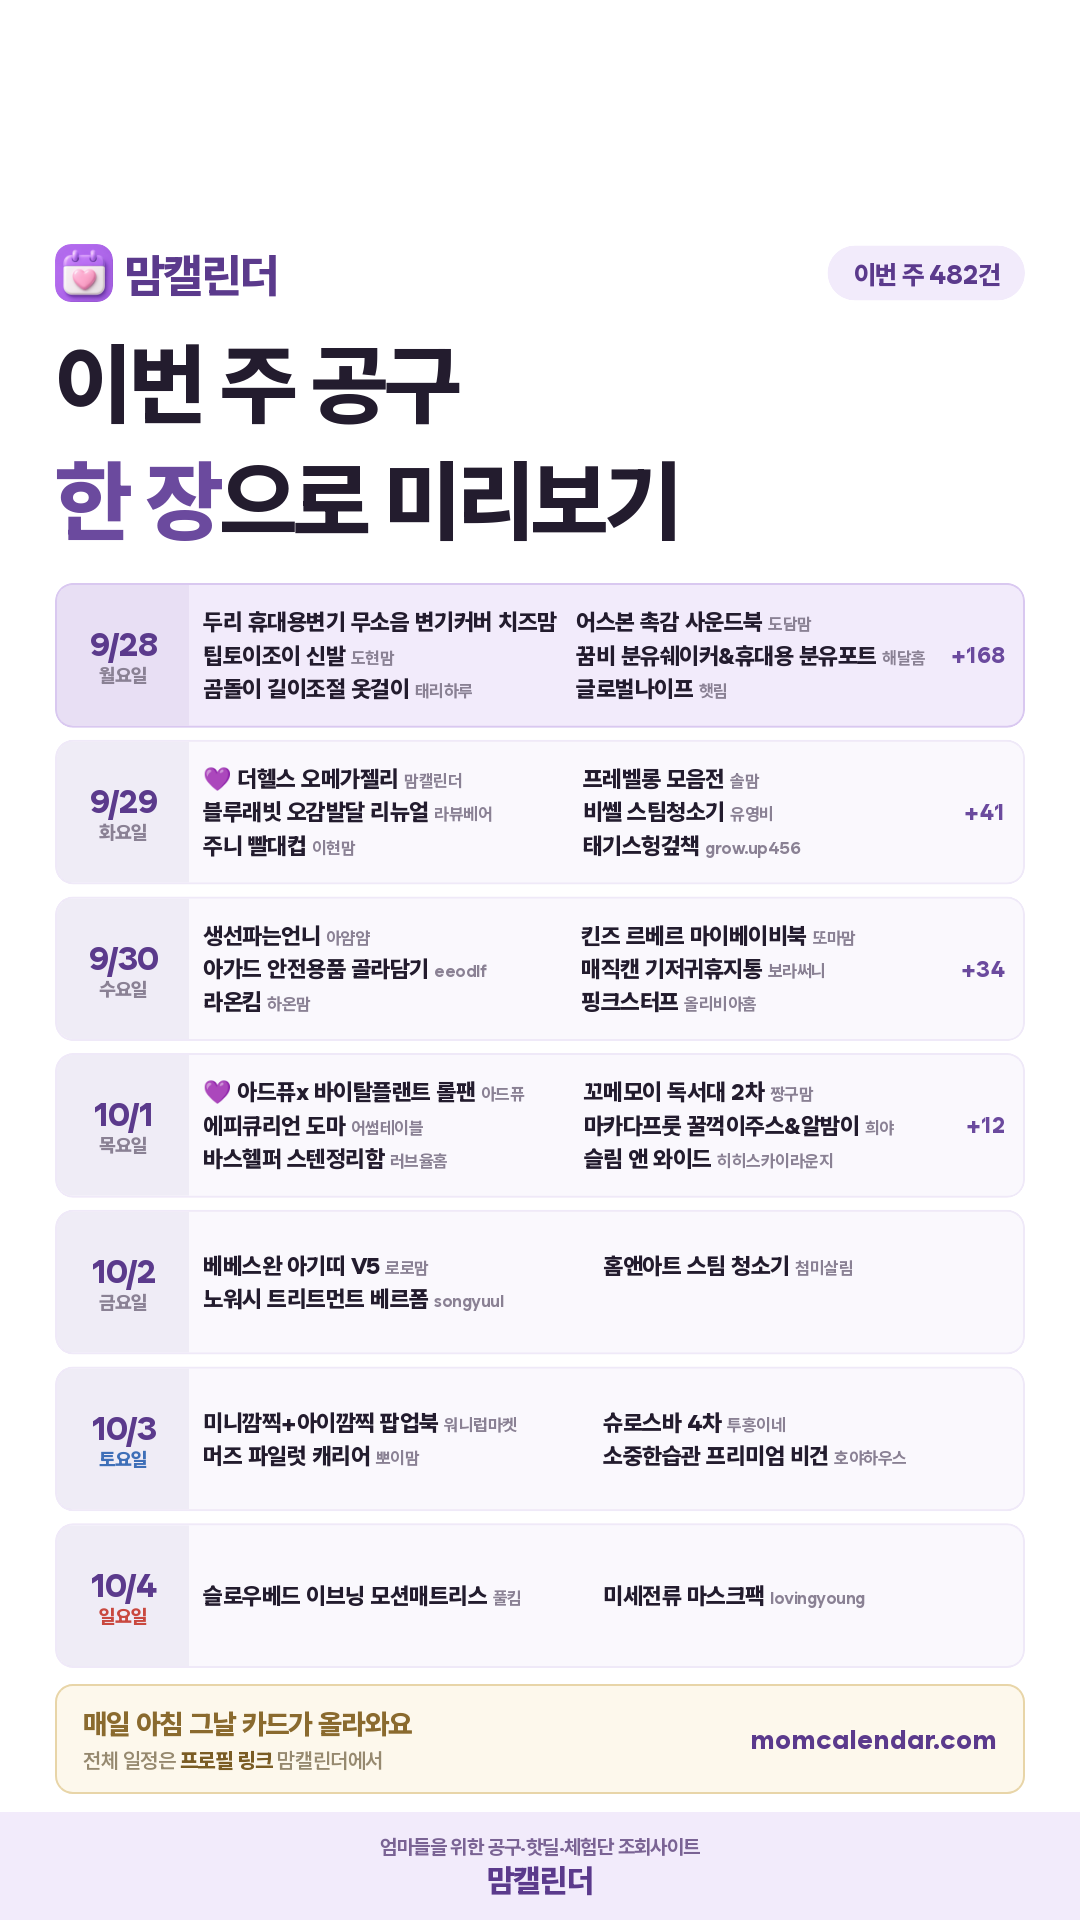
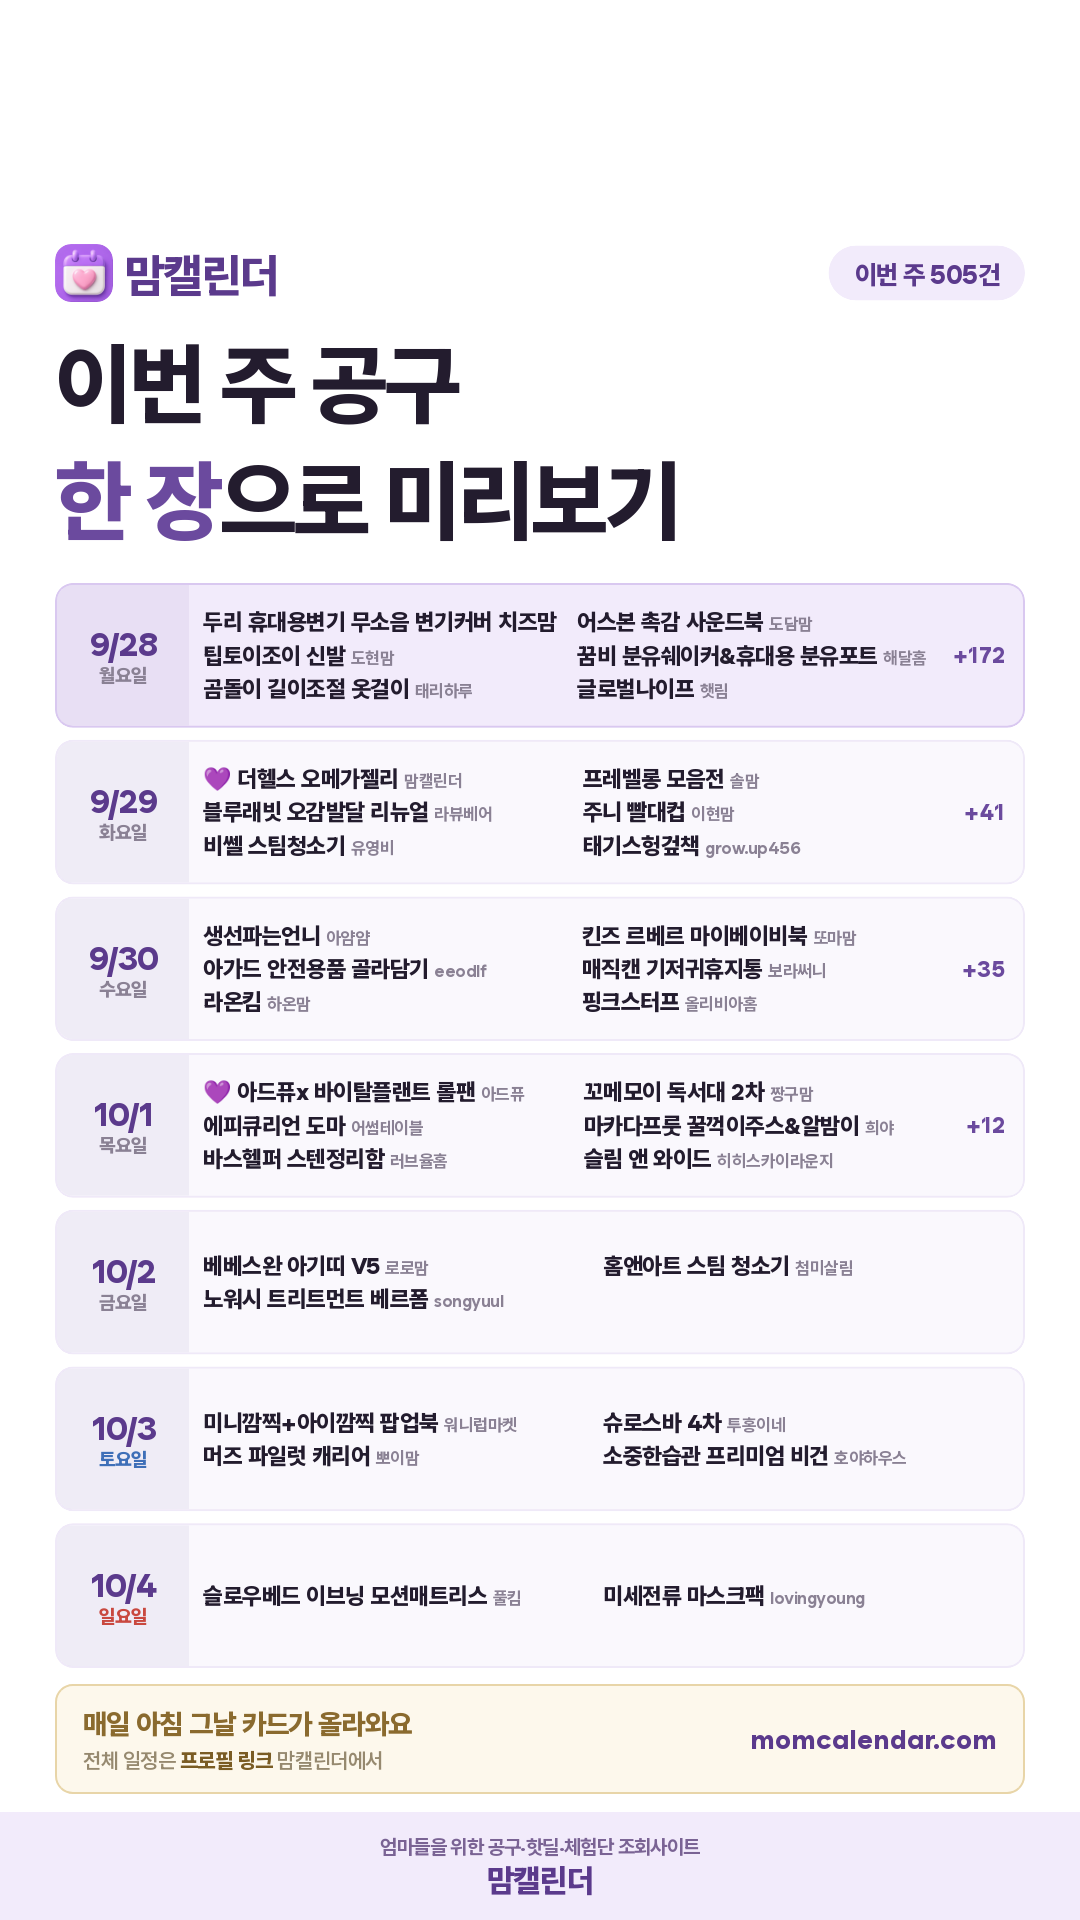
아침 인스타 카드 (2026-09-28)

diff --git a/daily/2026-09-28.html b/daily/2026-09-28.html
@@ -19,7 +19,7 @@ textarea{width:100%;height:260px;border:1px solid #E3DCEF;border-radius:10px;pad
 .todo p{font-size:12.5px;color:#6B6379;line-height:1.75;margin-top:6px}
 .todo a{color:#5B2E8C;font-weight:700}
 </style></head><body>
-<div class="hd"><div class="wrap"><h1>9월 28일(월) 인스타 카드</h1><p>주간예고 · week 482</p></div></div>
+<div class="hd"><div class="wrap"><h1>9월 28일(월) 인스타 카드</h1><p>주간예고 · week 505</p></div></div>
 <div class="wrap">
   
   <div class="card"><img src="./2026-09-28.png" alt="오늘 공구 카드"></div>
@@ -27,7 +27,7 @@ textarea{width:100%;height:260px;border:1px solid #E3DCEF;border-radius:10px;pad
   <div class="card">
     <textarea id="cap" readonly>한 주 시작 전에 공구 캘린더부터 저장하세요
 
-이번 주(9/28~10/4) 오픈 예정 482건
+이번 주(9/28~10/4) 오픈 예정 505건
 
 ━━━━━━━━━━━━━━
 
@@ -41,22 +41,22 @@ textarea{width:100%;height:260px;border:1px solid #E3DCEF;border-radius:10px;pad
 · 4세대 세이펜 &amp; 5세대 세이톡 — 쁨마미
 · 삼천리 샘트라이크 — 주원맘
 · 에듀플레이어·DVD 모음전 — 꽃비니
-· 토도 영어, 한글 — 로이맘
 · 탁가온 할인전 — 온이프홈
-· 땡스소윤 — 다다
+· 토도 영어, 한글 — 로이맘
+· 나뚜라하우스 여성청결제 + 아몬드오일 — 따리따리
 · 아이팜 디딤대 — 누누맘
+· 땡스소윤 — 다다
 · 퍼스트바이크 — 또비앙
 · 푸른들 후리가케 동결건조국 — 젤리또리
 · 조이 카시트 360 — 봄동이네
-· 미미뻥 — 하윤맘
-…외 157건
+…외 161건
 
 🗓 9/29(화) 오픈
 · 더헬스 오메가젤리 — 맘캘린더 @momcal_
 · 프레벨롱 모음전 — 솔맘
 · 블루래빗 오감발달 리뉴얼 — 라뷰베어
-· 비쎌 스팀청소기 — 유영비
 · 주니 빨대컵 — 이현맘
+· 비쎌 스팀청소기 — 유영비
 · 태기스헝겊책 — grow.up456
 · 주니 갓성비 러닝타워 — 비나맘
 · 꿈잉 러닝타워 — 서누서나네
@@ -68,8 +68,7 @@ textarea{width:100%;height:260px;border:1px solid #E3DCEF;border-radius:10px;pad
 · 셀피 두피 괄사 2차 — 매일부엌
 · 맥킹덤 맥타일즈 자석블럭 모음전 — 이현찰퐁맘
 · 어설랑 키즈어묵 2차 — 윤슬라멜맘
-· 비트리 블랙 — 정성
-…외 30건
+…외 31건
 
 🗓 9/30(수) 오픈
 · 생선파는언니 — 아얌얌
@@ -88,8 +87,7 @@ textarea{width:100%;height:260px;border:1px solid #E3DCEF;border-radius:10px;pad
 · 로트벡쉔 이뮨킥·그로우업샷 — 리본홈
 · 다요트 청하단 — yoon__bling
 · 첫물곰탕 — 진명테이블
-· 헤모씨 플러스 다이렉트 — 딸기약사
-…외 23건
+…외 25건
 
 🗓 10/1(목) 오픈
 · 아드퓨x 바이탈플랜트 롤팬 — 아드퓨 @atelier.de.purete
@@ -102,12 +100,12 @@ textarea{width:100%;height:260px;border:1px solid #E3DCEF;border-radius:10px;pad
 · 프리파라 브루클린 밀폐용기 — 몽슈아
 · 베리네이처 야채큐브 — 봉쥬르맘
 · 더진순 곰탕 — 김진순
+· 제스파 마사지베개 — vita_ddoddo
+· 뉴트리션스탠다드 커큐민플라 롱비다 커큐민 — 드림약사
+· 서울 안토 — 준성담
 · 오즈웨어 어그 베스트&amp;신상 — 종달맘
 · 비프칩 &amp; 버터 4차 — 생활작가
 · 메디픽 구강세정기 앵콜 8차 — 덴덴언니
-· 푸꾸옥 에어텔 — 이루맘
-· 엔에프락 원형 세트 — 누누네
-· 3만원대 자동센서 휴지통 — 채집
 …외 2건
 
 🗓 10/2(금) 오픈
@@ -144,7 +142,7 @@ textarea{width:100%;height:260px;border:1px solid #E3DCEF;border-radius:10px;pad
 ⚠ 공구 일정은 판매자 사정에 따라 변경·조기마감될 수 있어요.
 
 #맘캘린더 #공구일정 #육아공구 #9월28일공구 #공구추천 #육아맘 #오늘의공구 #공구모음 #영양제 #아기간식 #공동구매 #놀잇감</textarea>
-    <div class="meta">2181자</div>
+    <div class="meta">2179자</div>
     <button class="btn btn2" onclick="cp('cap','캡션')">캡션 복사</button>
   </div>
   <div class="card">
@@ -176,10 +174,10 @@ https://open.kakao.com/o/gr2kJhCh
 
 ─────────────
 
-9월 28일(월), 오늘 문 여는 공동구매 233건이에요. 카테고리별로 보기 좋게 정리했어요.
-함께 마감 52건도 정리했어요. 놓친 게 없는지 훑어보세요.
+9월 28일(월), 오늘 문 여는 공동구매 242건이에요. 카테고리별로 보기 좋게 정리했어요.
+함께 마감 56건도 정리했어요. 놓친 게 없는지 훑어보세요.
 
-■ 오늘 오픈하는 공구 233건
+■ 오늘 오픈하는 공구 242건
 
 [육아]
 · 3차 우리아이채수&amp;우리가족채수 — 드니맘 (~10/1 마감)
@@ -233,8 +231,8 @@ https://open.kakao.com/o/gr2kJhCh
 · 아람키즈 접이식 피아노 — 도하상점 (~9/30 마감)
 · 아이누오 두상베개 3차 — 뽀물이네 (~9/30 마감)
 · 아이팜 디딤대 — 누누맘 (~9/30 마감)
-· 아티바바 실리콘블럭 — 뮤즈마켓 (~9/30 마감)
 · 아티바바 실리콘블럭 — 뮤즈언니 (~9/30 마감)
+· 아티바바 실리콘블럭 — 뮤즈마켓 (~9/30 마감)
 · 애플비 사운드북 15종 골라담기 — 수니점빵 (~10/1 마감)
 · 어스본 촉감 사운드북 — 도담맘 (~10/2 마감)
 · 엄마랑 낱말카드 — 벨라하우스 (~10/1 마감)
@@ -286,6 +284,7 @@ https://open.kakao.com/o/gr2kJhCh
 · 메디니스 목견인기 — 헬썬 (~9/30 마감)
 · 메종프라질 쿠페 멀티나이프 — 썬이맘 (~10/2 마감)
 · 베베데코 스크래쳐 — 부끄 (~10/5 마감)
+· 스웰 샐러드볼 — 헬룸 (~10/1 마감)
 · 시라쿠스 메이플 식기 — 대장언니 (~9/30 마감)
 · 쏘우리프 행주걸이 — 그루비슬 (~10/1 마감)
 · 아기방필수템 암막블라인드 — 다니맘 (~9/30 마감)
@@ -300,6 +299,7 @@ https://open.kakao.com/o/gr2kJhCh
 · 텐셀 모달 차렵 4계절용 — 그집1303 (~10/1 마감)
 · 프렘 무쇠 냄비&amp;후라이팬 — 길쭉이네 (~10/1 마감)
 · 한식양식 커트러리 — 원살림 (~10/4 마감)
+· 호들 낮잠이불 — 메종드엘라 (~10/1 마감)
 
 [식품]
 · 그랑퍼마쥬 씨솔트 버터 — 헬씨원 (~9/30 마감)
@@ -308,6 +308,7 @@ https://open.kakao.com/o/gr2kJhCh
 · 모스 스토리 육수가루 — 맘스테이블 (~10/4 마감)
 · 무무칩 소고기칩&amp; 소고기가루 무무솔솔 — 모찌맘 (~10/1 마감)
 · 미미뻥 — 하윤맘 (~10/1 마감)
+· 밀키요 요거트 — 우둥맘 (~9/30 마감)
 · 바밤 단호박 — 간식당 (~10/1 마감)
 · 백본감자탕 — cook_and_candle (~9/30 마감)
 · 백억닭발 — 대구언니야 (~10/1 마감)
@@ -316,11 +317,13 @@ https://open.kakao.com/o/gr2kJhCh
 · 비연담 닭곰탕·갈비탕·등갈비탕 — 라라맘 (~10/4 마감)
 · 뿌리링 후리가케 22차 — 매일부엌 (~10/1 마감)
 · 소일베이커 3차 — emily.at_home (~10/1 마감)
+· 스프레이오일·올리브유·현미유 — 희야 (~10/1 마감)
 · 실큰두부 — 김미정 (~9/30 마감)
 · 아이들 건강 식빵 카스테라 — 약사부부 (~10/1 마감)
 · 얼짱쭈꾸미 — 예림 (~10/2 마감)
 · 엉파 목초육 이베리코 듀록 간편식 — 제제로운건강생활 (~9/30 마감)
 · 여수해적 빡된장 — 송송마켓 (~10/3 마감)
+· 여수해적 전복죽 — 힝버미네 (~10/2 마감)
 · 올바스 오일 — gooomzybusy (~10/1 마감)
 · 우아한김 — 윤슬라멜맘 (~10/1 마감)
 · 워킹맘의 닭발 알곱창 간장찜닭 — 워킹맘의하루 (~10/1 마감)
@@ -344,6 +347,7 @@ https://open.kakao.com/o/gr2kJhCh
 · 가꾸기 다이어트 쉐이크 — 베라킴 (~9/30 마감)
 · 그로틴 쉐이크 — 하겸 (~9/30 마감)
 · 뉴트리원 이노시톨·철분제·칼마디·질유산균 — 이유데이 (~10/1 마감)
+· 닥터퀼리 오메가3 — 뷰약사 (~10/5 마감)
 · 닥터퀼리 철분제 — 강약사 (~10/1 마감)
 · 닥터파이토 파이토블락 — 서찬서가 (~10/1 마감)
 · 더리틀스 코큐텐부스터 — 아이엠약사 (~10/4 마감)
@@ -360,6 +364,7 @@ https://open.kakao.com/o/gr2kJhCh
 · 영라뉴 급찐급빠 — 서진쌤 (~10/1 마감)
 · 영롱 콜라겐 — 우아맘 (~10/1 마감)
 · 올비건 오메가3 — 레미맘 (~10/1 마감)
+· 올키 비타&amp;칼슘젤리 + 넘버블록스 오메가3 — 이현찰퐁맘 (~10/1 마감)
 · 올퓨어 오메가3 — 기요니 (~10/1 마감)
 · 이노시톨 — 도비약사 (~10/1 마감)
 · 인플샷 — 먹조아맘 (~10/1 마감)
@@ -386,6 +391,7 @@ https://open.kakao.com/o/gr2kJhCh
 · 비블리안 — 브론즈 (~10/5 마감)
 · 비판톨 고보습 바디케어 — 마이어홈 (~10/1 마감)
 · 이타카 바스트 퍼밍 세트 — 윤지쌤 (~10/4 마감)
+· 풋네스 기적의 풋크림 5차 — 티로젯 (~10/1 마감)
 · 프란츠 — double_joo (~10/2 마감)
 
 [가전]
@@ -421,8 +427,8 @@ https://open.kakao.com/o/gr2kJhCh
 · MSC 벨리시마 크루즈 — 여행특가 말랑맘 (~10/1 마감)
 · 알펜시아 리조트 — 제니져니 (~10/4 마감)
 · 제주 신화월드 — Hello롱초 (~10/3 마감)
-· 코튼클라우드 디자인선염 호텔수건 피크닉 — 리로네 (~10/1 마감)
 · 코튼클라우드 디자인선염 호텔수건 피크닉 — 3__meow (~10/1 마감)
+· 코튼클라우드 디자인선염 호텔수건 피크닉 — 리로네 (~10/1 마감)
 
 [인테리어]
 · 롤베이비 러그 — 토코맘 (~10/1 마감)
@@ -432,8 +438,12 @@ https://open.kakao.com/o/gr2kJhCh
 · 아오라 우주빔 무드등 — 또마맘 (~10/1 마감)
 · 암막블라인드 — 박다솜 (~9/30 마감)
 
-■ 오늘 끝나는 공구 52건
+[반려동물]
+· 브릿 덴탈스틱·트릿 — 개엄마 (~10/2 마감)
+
+■ 오늘 끝나는 공구 56건
 · AM 텀블러 — 프롬졸리
+· DOWESEE 버터 맥시스커트 — vita_ddoddo
 · 굿에바스 플레이그라운드 — 이안마미
 · 길쭉담이 수납함 — 미르홈
 · 까르엠 030 스윙 모듈 소파 2차 — 헤이홈
@@ -449,6 +459,7 @@ https://open.kakao.com/o/gr2kJhCh
 · 마더케이 — 헤이다다
 · 마이리틀 경제동화 — 서점맘
 · 맘이가요 추석 홀리데이 키친 위크 — 맘이가요
+· 메디니스 넥필 목견인기 — 스노우밤비
 · 메쉬 지퍼파우치 — 장소정
 · 미소다 냉동제품 8종 — 라라맘
 · 미스티파이 뽑아쓰는 항균 행주 — 레이첼꽁
@@ -464,6 +475,7 @@ https://open.kakao.com/o/gr2kJhCh
 · 에떼르노 세면대 수전 — 신림댁
 · 에떼르노 세면대 수전 — 신림댁
 · 여원 창작동화 전집 — 쀼맘
+· 올유베베 멜로우 후드집업 — 선유맘
 · 우리별피자 — 맘캘린더
 · 웅진 똑똑한 유아 어휘·독해 — 류둥이네
 · 위칙 소독 세탁세제·유연제 — 사는게예술
@@ -472,6 +484,7 @@ https://open.kakao.com/o/gr2kJhCh
 · 찐티 보리·옥수수·현미차 — gooomzybusy
 · 총영하이 프로디 유산균+비타민D — my_ssseul_
 · 카베 SOD 위밸런스 — 자신있는약상담
+· 큐브온 4포트 릴타입 충전기 — 에루홈
 · 큐템 MD크림 — 봉선아
 · 터블 이지클린 발포세정제 — 친절한 미달이
 · 테라큐민 — 은하약사

diff --git a/daily/today.html b/daily/today.html
@@ -1,15 +1,15 @@
 <!DOCTYPE html><html lang="ko"><head>
 <meta charset="UTF-8"><meta name="viewport" content="width=device-width,initial-scale=1">
 <meta name="robots" content="noindex,nofollow">
-<title>10/5(월) 오늘 공구 캘린더</title>
-<meta property="og:title" content="10/5(월) 오늘 공구 캘린더">
-<meta property="og:image" content="https://momcalendar.com/daily/today.png?v=2026-10-05">
+<title>9/28(월) 오늘 공구 캘린더</title>
+<meta property="og:title" content="9/28(월) 오늘 공구 캘린더">
+<meta property="og:image" content="https://momcalendar.com/daily/today.png?v=2026-09-28">
 <style>body{margin:0;background:#F6F4F9;font-family:-apple-system,BlinkMacSystemFont,'Apple SD Gothic Neo','Malgun Gothic',sans-serif;text-align:center}
 h1{font-size:17px;color:#4A1A78;padding:14px 0 10px;margin:0}
 img{width:100%;max-width:540px;display:block;margin:0 auto;border-radius:12px;box-shadow:0 2px 12px rgba(96,32,144,.12)}
 p{font-size:12.5px;color:#8A8A8A;padding:12px}</style></head><body>
 
-<h1>10/5(월) 오늘 공구 캘린더</h1>
-<img src="./today.png?v=1790545182644" alt="10/5(월) 오늘 공구 캘린더">
+<h1>9/28(월) 오늘 공구 캘린더</h1>
+<img src="./today.png?v=1790557822181" alt="9/28(월) 오늘 공구 캘린더">
 <p>매일 아침 자동으로 새로 그려집니다 · <a href="https://momcalendar.com">맘캘린더</a></p>
 </body></html>

diff --git a/daily/index.html b/daily/index.html
@@ -1,1 +1,1 @@
-<!DOCTYPE html><meta charset="UTF-8"><meta http-equiv="refresh" content="0;url=./2026-10-05.html">
+<!DOCTYPE html><meta charset="UTF-8"><meta http-equiv="refresh" content="0;url=./2026-09-28.html">
